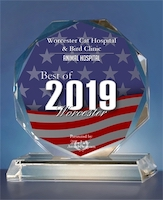
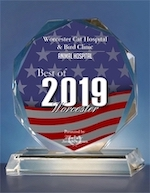
Best of Worcester

diff --git a/content/_index.md b/content/_index.md
@@ -26,14 +26,15 @@ draft: false
 
 <div class="row bestofworcester">
 	<div class="col-8">
-		<h2>Voted "Best of Worcester" !!</h2>
-		<p>Thanks to our outstanding clients and wonderful staff, we've been selected for the <b>Best of Worcester Award!</b></p>
+		<h2>Voted "Best of Worcester" Again!!</h2>
+		<p>Thanks to our outstanding clients and wonderful staff, we've been selected for the <b>Best of Worcester Award for both 2019 and 2020!</b></p>
 		<p>Call us for an appointment for your pet today and experience our quality and caring for yourself.</p>
-		<a href="https://worcester.2019managementbest-ofselection.com/PressReleaseub.aspx?cc=DMMV-VBMG-XQCC" target="_blank">Press Release</a>
+		<a href="https://worcester.2020-management-honor-recognition.com/PressReleaseub.aspx?cc=DMM6-WBMG-XQCC" target="_blank">Press Release</a>
 	</div>
 	<div class="col">
-		<a href="https://worcester.2019managementbest-ofselection.com/PressReleaseub.aspx?cc=DMMV-VBMG-XQCC" target="_blank">
-		{{< figure src="/images/bestOfWorcester.jpg" >}}</a>
+		<a href="https://worcester.2020-management-honor-recognition.com/PressReleaseub.aspx?cc=DMM6-WBMG-XQCC" target="_blank">
+		<img src="/images/bestOfWorcester2020.jpg" >
+		<img src="/images/bestOfWorcester.jpg" ></a>
 	</div>
 </div>
 </div>
